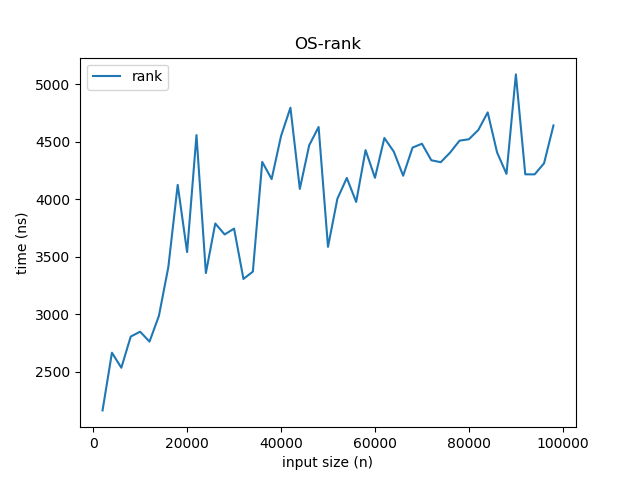
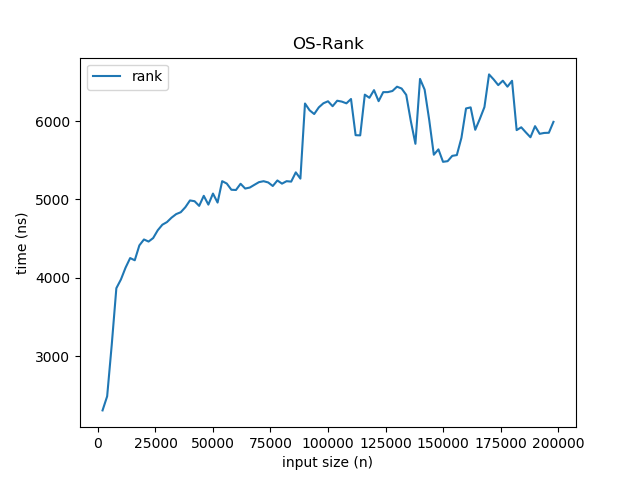
Update 2

diff --git a/Python/OSTrees/os_trees.py b/Python/OSTrees/os_trees.py
@@ -426,7 +426,7 @@ if __name__ == "__main__":
     end = int(input('End: '))
     step = int(input('Step: '))
     n = np.arange(start, end, step)
-    avg_times = 1
+    avg_times = int(input('Averages: '))
 
     insert_time = []
     delete_time = []
@@ -492,7 +492,7 @@ if __name__ == "__main__":
     insert_df = pd.DataFrame({'input': n, 'time': insert_time})
     delete_df = pd.DataFrame({'input': n, 'time': delete_time})
     select_df = pd.DataFrame({'input': n, 'time': select_time})
-    rank_df = pd.DataFrame({'inpute': n, 'time': rank_time})
+    rank_df = pd.DataFrame({'input': n, 'time': rank_time})
 
     insert_df.to_csv('insert.csv', header=True, index=False)
     delete_df.to_csv('delete.csv', header=True, index=False)
